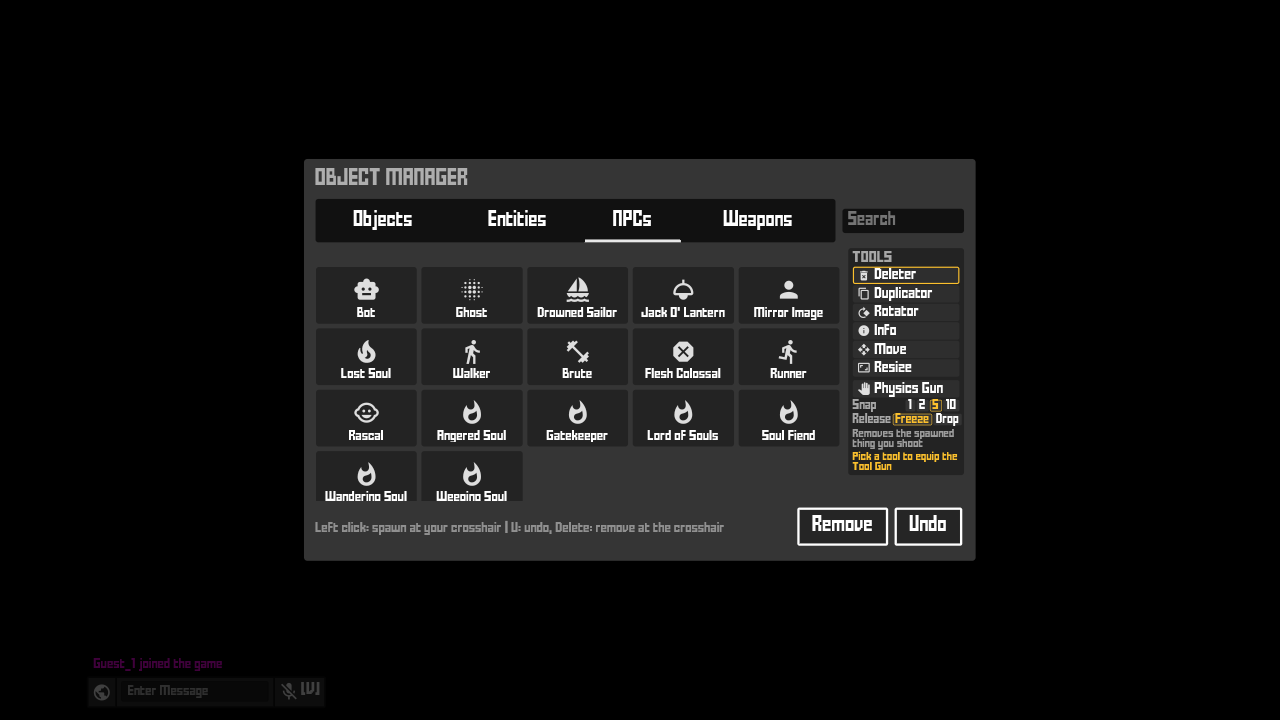
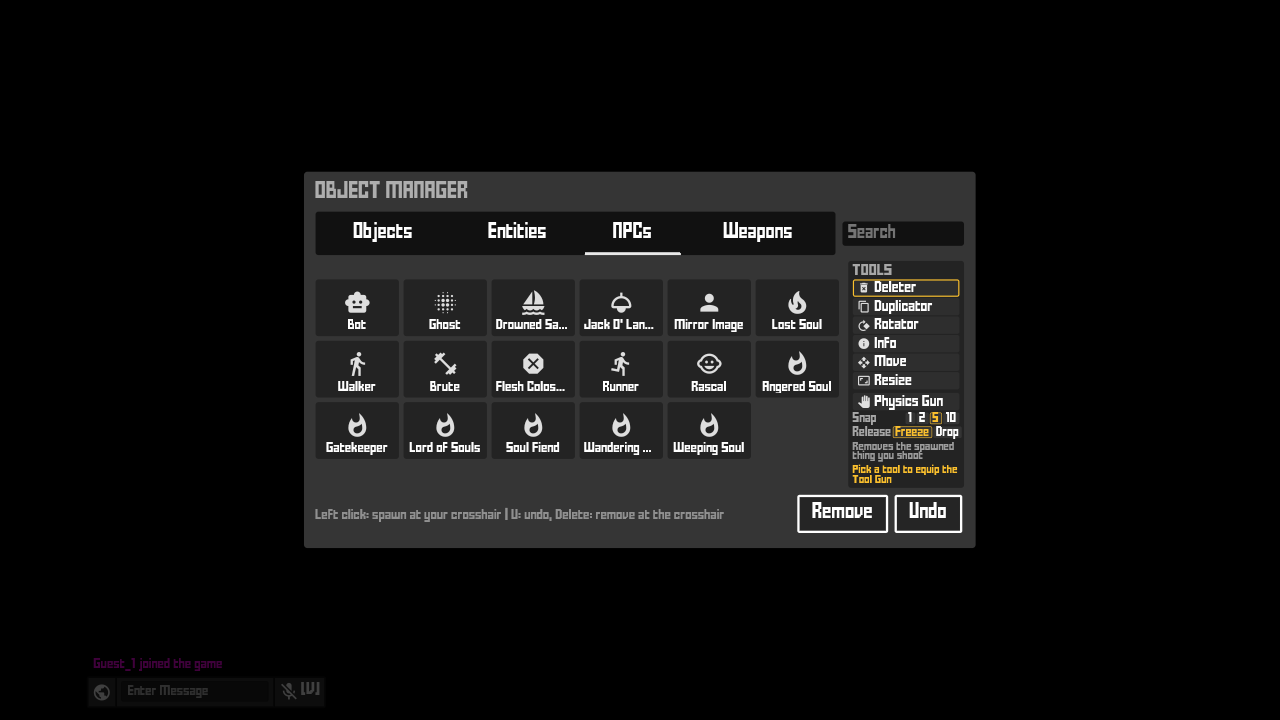
Object Manager: the grid wraps to the width it has (no horizontal scroll)
The grid was repeat(5, 1fr) with fixed 120 px icons. Once the window
also held the Tools pane, five tiles no longer fit and the grid
scrolled sideways. It is now repeat(auto-fill, minmax(136px, 1fr)) with
overflow-x hidden, and icons scale down to their tile (max 120 px). That
gives 6 columns at 1280x720 and 1024x640 and only ever scrolls
vertically. The kn-om-* uidiff baselines are re-rendered (llvmpipe).

Changed region(s): [[0.2188, 0.2139, 0.7812, 0.7944]]

diff --git a/ui/css/krunknative.css b/ui/css/krunknative.css
@@ -299,9 +299,11 @@ input.knOmSearch {
 }
 #menuWindow.dark div.knOmGrid {
   display: grid;
-  grid-template-columns: repeat(5, 1fr);
+  /* as many columns as fit (5 at the default window): the tiles wrap, never a horizontal scroll */
+  grid-template-columns: repeat(auto-fill, minmax(136px, 1fr));
   gap: 8px;
   max-height: 404px; /* six rows: the tabs and the buttons stay in view, the grid scrolls */
+  overflow-x: hidden;
   overflow-y: auto;
   padding-right: 4px;
 }
@@ -321,11 +323,13 @@ input.knOmSearch {
   border-color: var(--yellow);
 }
 img.knOmIcon {
-  width: 120px;
-  height: 60px;
+  width: 100%;
+  max-width: 120px;
+  height: auto;
 }
 img.knOmProp {
   width: auto;
+  max-width: 100%;
   height: 60px;
 }
 #menuWindow.dark div.knOmGlyph {
